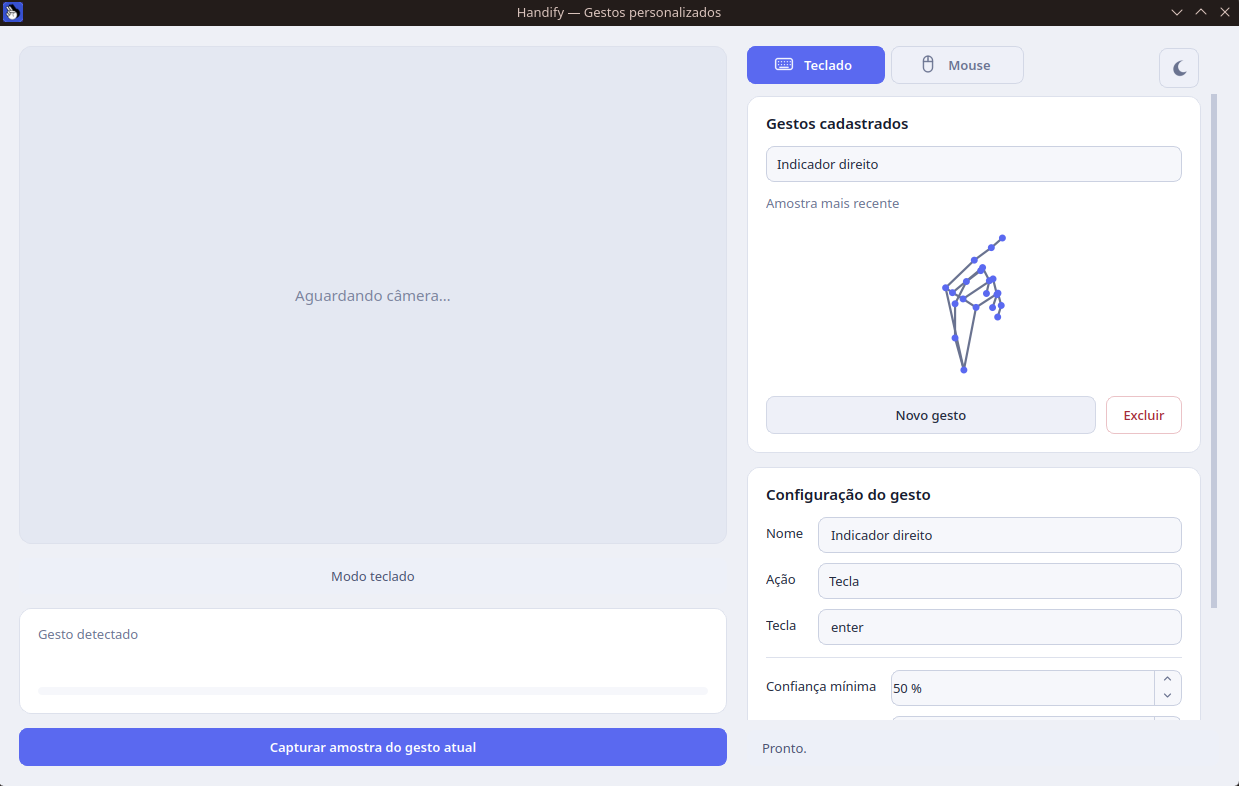
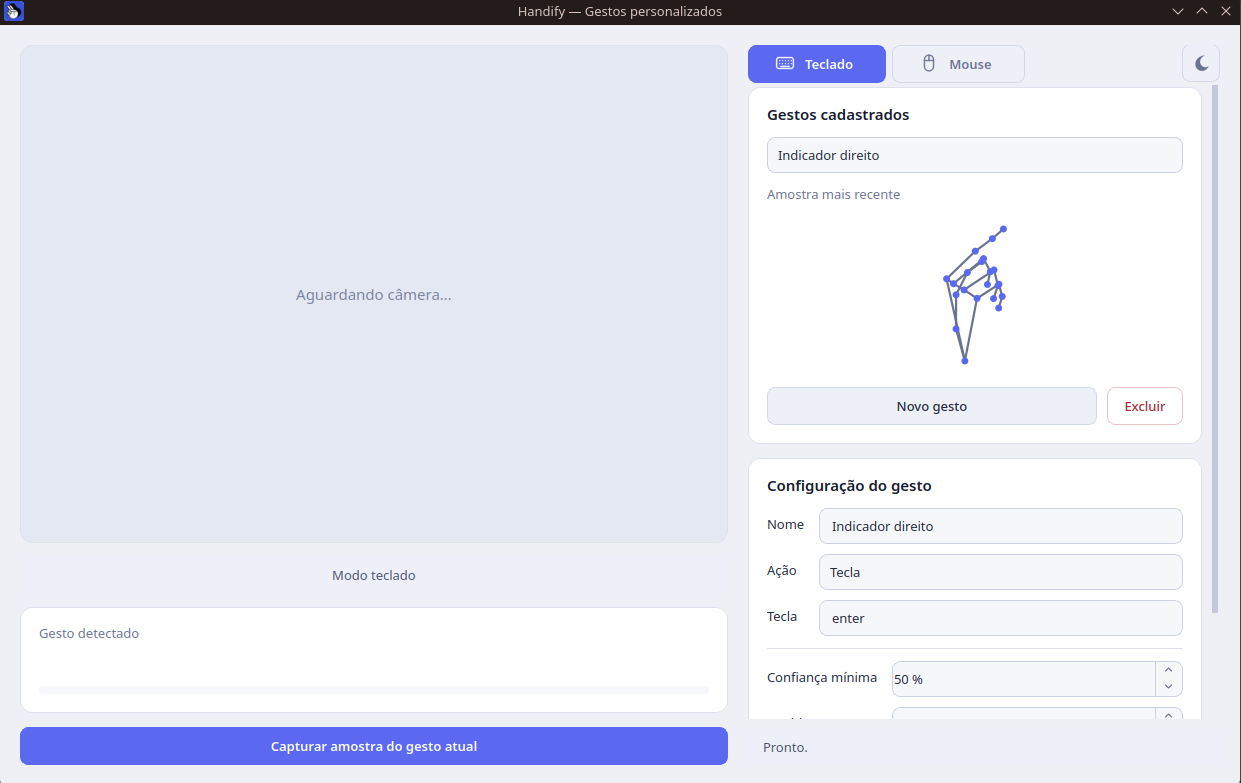
Readme atualizado

diff --git a/handify/ui/main_window.py b/handify/ui/main_window.py
@@ -103,7 +103,7 @@ QTabBar::tab {
     border-radius: 8px;
     padding: 8px 26px;
     margin-right: 6px;
-    margin-bottom: 8px;
+    margin-bottom: 0px;
     font-weight: 600;
 }
 QTabBar::tab:hover {
@@ -245,6 +245,14 @@ QPushButton#danger {
     color: @errfg;
 }
 QPushButton#danger:hover { background: @errbg; }
+
+QPushButton#themeButton {
+    padding: 0px;
+    min-width: 36px;
+    max-width: 36px;
+    min-height: 36px;
+    max-height: 36px;
+}
 
 QListWidget {
     background: @field;
@@ -676,6 +684,7 @@ class MainWindow(QMainWindow):
         self.resize(1240, 760)
         self.setMinimumSize(1000, 640)
         self.setWindowIcon(QIcon(resource_path("handify.ico")))
+        qApp.setWindowIcon(QIcon(resource_path("handify_1024.png")))
 
         self.settings = QSettings("handify", "sigcd")
         self.theme = self.settings.value("theme", "light")
@@ -834,13 +843,13 @@ class MainWindow(QMainWindow):
         column.setSpacing(10)
 
         self.theme_button = QPushButton()
+        self.theme_button.setObjectName("themeButton")
         self.theme_button.setCursor(Qt.PointingHandCursor)
-        self.theme_button.setFixedSize(40, 40)
+        self.theme_button.setFixedSize(36, 36)
         self.theme_button.setToolTip("Ativar modo escuro")
         self.theme_button.clicked.connect(self.toggle_theme)
 
-        # Duas abas: gestos que digitam (teclado) e gestos que movem o
-        # mouse. Cada uma tem a sua configuração e o seu arquivo JSON.
+        # Duas abas: 
         self.tabs = QTabWidget()
         self.tabs.setUsesScrollButtons(False)
         self.tabs.setIconSize(QSize(20, 20))
